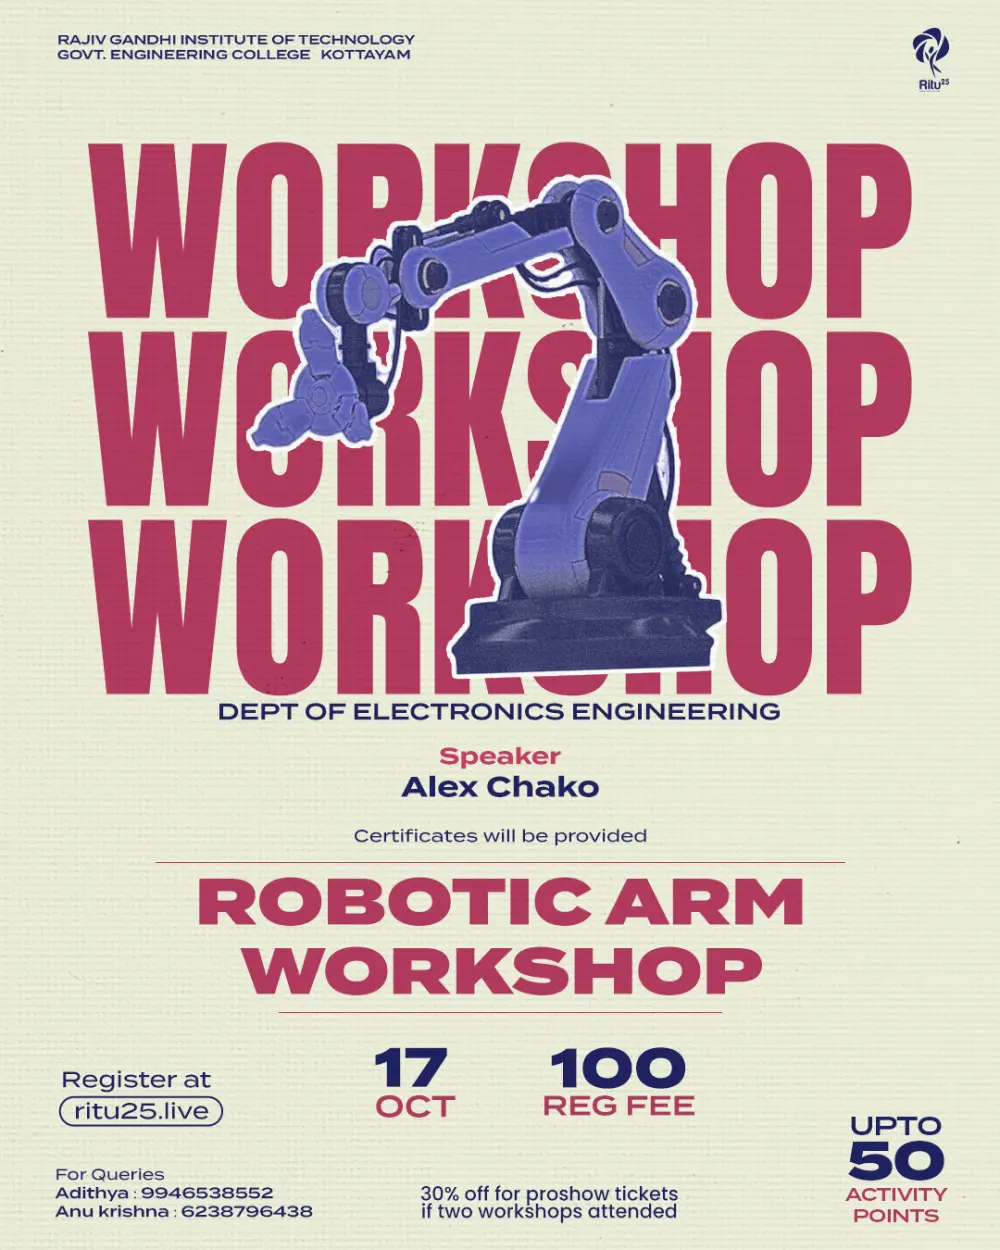
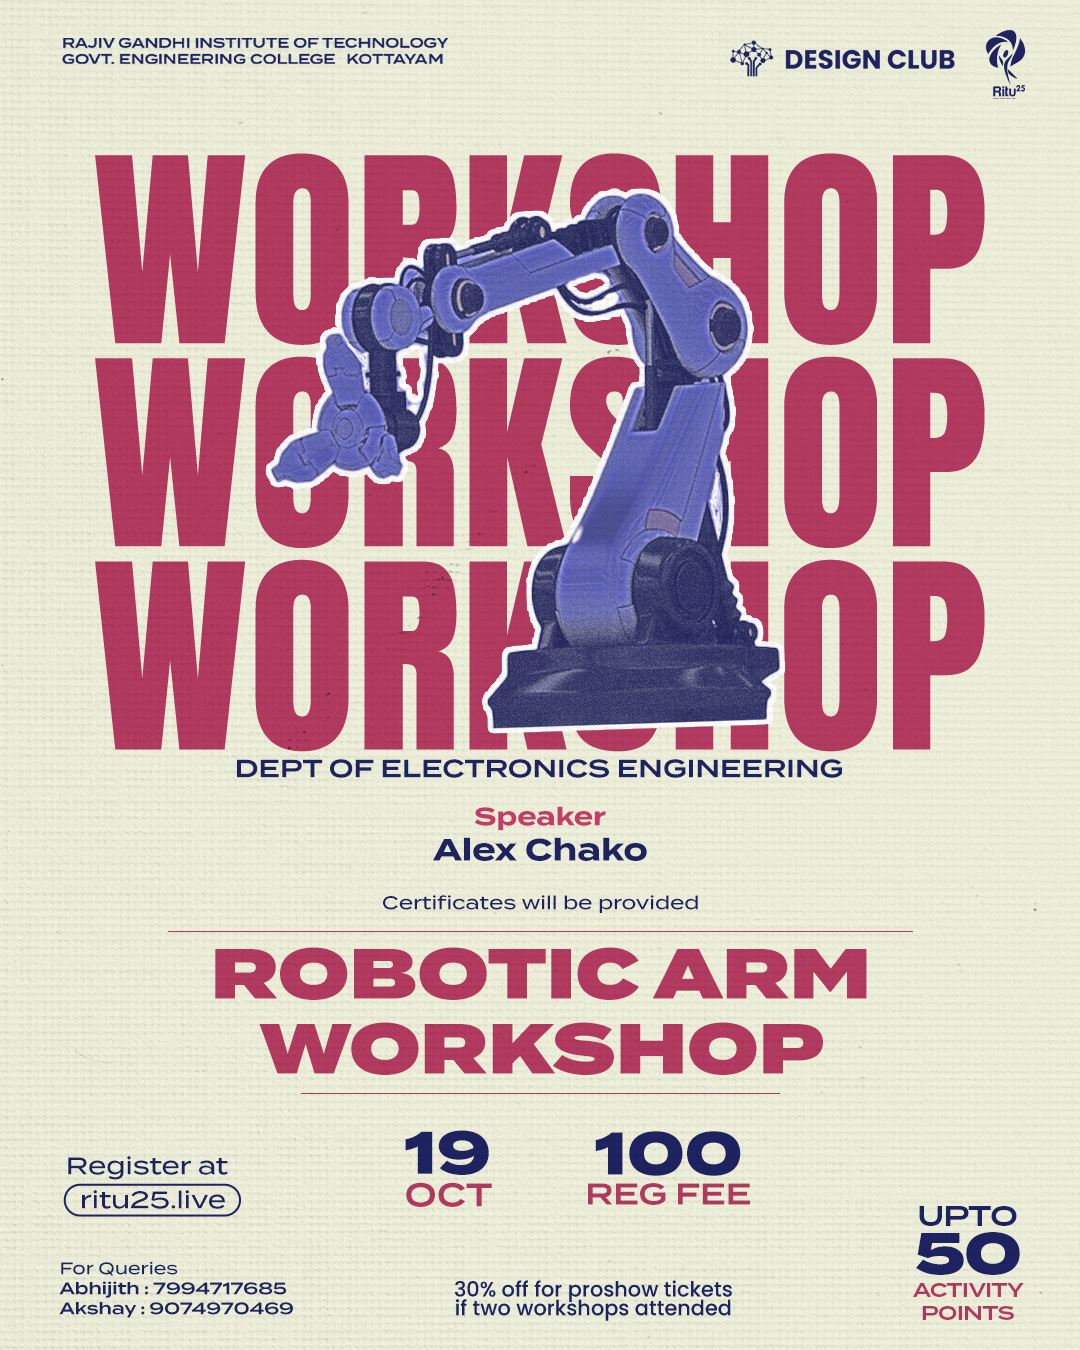
fixes

diff --git a/src/data/events/workshop.ts b/src/data/events/workshop.ts
@@ -201,9 +201,9 @@ const WORKSHOPS = [
         "endDate": "2025-10-17T00:00:00+05:30"
     }, {
         "image": "/posters/workshops/robotic-arm.webp",
-        "date": "2025-10-17T00:00:00+05:30",
+        "date": "2025-10-19T00:00:00+05:30",
         "title": "Robotic Arm",
-        "description": "Build, program, and control the future of automation!\nJoin us for the Robotic Arm Workshop and get hands-on experience designing and operating robotic mechanisms.\nUnderstand the fundamentals of movement control, sensors, and electronic interfacing that power today’s robots.\n\nSpeaker:\nAlex Chako\n\nDate: 17 October\nVenue: Rit Kottayam\nRegistration Fee: ₹100\n\nActivity Points: Up to 50 points\n\nRegister at: ritu25.live\n\nFor Queries:\nAdithya: 9946538552\nAnu Krishna: 6238796438\n\n#RITU25 #Robotics #Automation #ElectronicsEngineering #Innovation #Technology #RITKottayam #HandsOnLearning",
+        "description": "Build, program, and control the future of automation!\nJoin us for the Robotic Arm Workshop and get hands-on experience designing and operating robotic mechanisms.\nUnderstand the fundamentals of movement control, sensors, and electronic interfacing that power today’s robots.\n\nSpeaker:\nAlex Chako\n\nDate: 19 October\nVenue: Rit Kottayam\nRegistration Fee: ₹100\n\nActivity Points: Up to 50 points\n\nRegister at: ritu25.live\n\nFor Queries:\nAdithya: 9946538552\nAnu Krishna: 6238796438\n\n#RITU25 #Robotics #Automation #ElectronicsEngineering #Innovation #Technology #RITKottayam #HandsOnLearning",
         "location": "RIT",
         "url": "https://www.yepdesk.com/embed/open-register/68e7996246e0fb00016e26c2/sl7l2jaf7t",
         "contact": [
@@ -216,7 +216,7 @@ const WORKSHOPS = [
                 "number": "6238796438"
             }
         ],
-        "endDate": "2025-10-17T00:00:00+05:30",
+        "endDate": "2025-10-19T00:00:00+05:30",
         "createdDate": "2025-10-09T12:38:32.558Z"
     }, {
         "image": "/posters/workshops/photo.webp",
